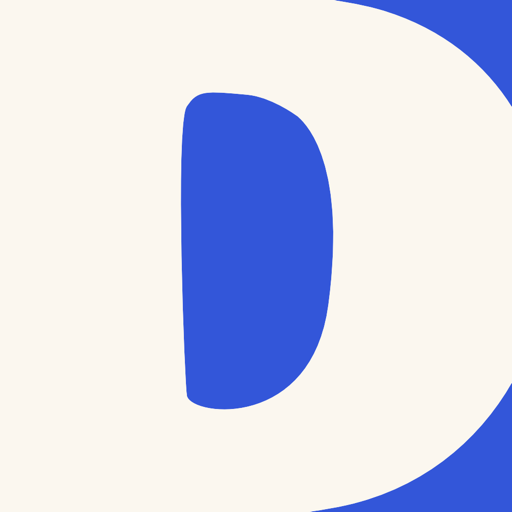
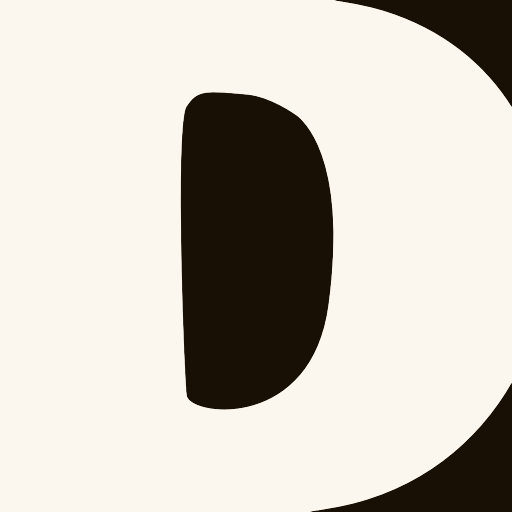
theme: เปลี่ยนสีแบรนด์เป็น espresso #181004 ทั้งเว็บ+โลโก้+ไอคอนแอป + ไอคอนตะกร้า/ลูกเต๋าใหม่ (line) + การ์ดแชร์โลโก้/ครีม

Changed region(s): [[0.3438, 0.1562, 0.6562, 0.8125], [0.625, 0.75, 1.0, 1.0], [0.6562, 0.0, 1.0, 0.2188]]

diff --git a/src/App.tsx b/src/App.tsx
@@ -13,6 +13,7 @@ import Mascot from './components/Mascot';
 import MobilePriceSheet from './components/MobilePriceSheet';
 import NavArrow from './components/NavArrows';
 import ShareMenu from './components/ShareMenu';
+import { BagIcon, DiceIcon } from './components/icons';
 import StageCaption from './components/StageCaption';
 import Toast from './components/Toast';
 import { useAuth } from './hooks/useAuth';
@@ -376,7 +377,7 @@ export default function App() {
     return (
       <div className="flex h-[100svh] w-full items-center justify-center bg-neutral-100">
         <div className="animate-pulse text-center">
-          <h1 className="font-logo text-3xl text-[#3356D9]">DOOD</h1>
+          <h1 className="font-logo text-3xl text-[#181004]">DOOD</h1>
           <p className="mt-2 text-sm text-neutral-400">กำลังโหลด…</p>
         </div>
       </div>
@@ -394,7 +395,7 @@ export default function App() {
         style={{ paddingTop: 'calc(env(safe-area-inset-top) + 0.75rem)' }}
       >
         <div>
-          <h1 className="font-logo text-xl leading-none text-[#3356D9]">DOOD</h1>
+          <h1 className="font-logo text-xl leading-none text-[#181004]">DOOD</h1>
           <p className="mt-1 text-[11px] leading-none text-neutral-500">Make it your style</p>
         </div>
         <div className="flex items-center gap-2">
@@ -467,7 +468,7 @@ export default function App() {
       {/* คอลัมน์คอนโทรล (desktop เท่านั้น): หัวข้อ + เลือกชั้น + ราคา */}
       <footer className="hidden w-96 flex-col items-start gap-4 lg:flex">
         <div className="mb-4">
-          <h1 className="font-logo text-6xl text-[#3356D9]">DOOD</h1>
+          <h1 className="font-logo text-6xl text-[#181004]">DOOD</h1>
           <p className="mt-3 text-neutral-500">Make it your style</p>
         </div>
         <div className="flex items-center gap-3">
@@ -479,9 +480,9 @@ export default function App() {
             type="button"
             onClick={shuffle}
             aria-label="สุ่มลุค"
-            className="flex h-12 w-12 shrink-0 items-center justify-center rounded-full bg-white text-xl shadow-sm ring-1 ring-black/5 transition active:scale-90"
+            className="flex h-12 w-12 shrink-0 items-center justify-center rounded-full bg-white text-neutral-800 shadow-sm ring-1 ring-black/5 transition active:scale-90"
           >
-            🎲
+            <DiceIcon size={22} />
           </button>
           <BagButton count={count} onClick={() => setCollectionOpen(true)} size={48} />
           <ExpandButton onClick={() => setPreviewOpen(true)} size={48} />
@@ -500,9 +501,9 @@ export default function App() {
           type="button"
           onClick={shuffle}
           aria-label="สุ่มลุค"
-          className="flex h-14 w-14 items-center justify-center rounded-full bg-neutral-200 text-2xl shadow-lg ring-1 ring-black/10 transition active:scale-90"
+          className="flex h-14 w-14 items-center justify-center rounded-full bg-neutral-200 text-neutral-800 shadow-lg ring-1 ring-black/10 transition active:scale-90"
         >
-          🎲
+          <DiceIcon size={26} />
         </button>
       </div>
 
@@ -633,9 +634,9 @@ function BagButton({
       onClick={onClick}
       aria-label={`ลุคที่บันทึกไว้${count > 0 ? ` (${count})` : ''}`}
       style={{ height: size, width: size }}
-      className="relative flex shrink-0 items-center justify-center rounded-full bg-white text-lg shadow-sm ring-1 ring-black/5 transition active:scale-90"
+      className="relative flex shrink-0 items-center justify-center rounded-full bg-white text-neutral-800 shadow-sm ring-1 ring-black/5 transition active:scale-90"
     >
-      🛍
+      <BagIcon size={Math.round(size * 0.5)} />
       {count > 0 && (
         <span className="absolute -right-1 -top-1 flex h-5 min-w-[1.25rem] items-center justify-center rounded-full bg-brand-blue px-1 text-[10px] font-bold tabular-nums text-white ring-2 ring-neutral-100">
           {count}

diff --git a/src/components/icons.tsx b/src/components/icons.tsx
@@ -61,3 +61,52 @@ export function EyeOffIcon({ size = 20 }: { size?: number }) {
     </svg>
   );
 }
+
+// ไอคอนถุงช้อปปิ้ง (เส้น) — ปุ่มเปิดคอลเลกชัน/ลุคที่บันทึก
+export function BagIcon({ size = 20 }: { size?: number }) {
+  return (
+    <svg width={size} height={size} viewBox="0 0 24 24" fill="none" aria-hidden>
+      <path
+        d="M5.5 8h13l-1 11.2a1.5 1.5 0 0 1-1.5 1.3H8a1.5 1.5 0 0 1-1.5-1.3L5.5 8Z"
+        stroke="currentColor"
+        strokeWidth="2"
+        strokeLinejoin="round"
+      />
+      <path
+        d="M8.8 8V6.5a3.2 3.2 0 0 1 6.4 0V8"
+        stroke="currentColor"
+        strokeWidth="2"
+        strokeLinecap="round"
+      />
+    </svg>
+  );
+}
+
+// ไอคอนลูกเต๋า 3D (ลูกบาศก์ isometric — บน 1 · ซ้าย 3 · ขวา 2) — ปุ่มสุ่มลุค
+export function DiceIcon({ size = 20 }: { size?: number }) {
+  const dots = [
+    [12, 7.3], // หน้าบน (1)
+    [5.98, 11.53], [7.7, 14.38], [9.42, 17.23], // หน้าซ้าย (3) แนวทแยงกลางหน้า
+    [18.02, 11.53], [14.58, 17.23], // หน้าขวา (2) แนวทแยงกลางหน้า
+  ];
+  return (
+    <svg width={size} height={size} viewBox="0 0 24 24" fill="none" aria-hidden>
+      <path
+        d="M13.05 3.08 L19.55 6.67 Q20.6 7.25 20.6 8.45 L20.6 15.55 Q20.6 16.75 19.55 17.33 L13.05 20.92 Q12 21.5 10.95 20.92 L4.45 17.33 Q3.4 16.75 3.4 15.55 L3.4 8.45 Q3.4 7.25 4.45 6.67 L10.95 3.08 Q12 2.5 13.05 3.08 Z"
+        stroke="currentColor"
+        strokeWidth="2"
+        strokeLinejoin="round"
+      />
+      <path
+        d="M3.4 7.25 L12 12 L20.6 7.25 M12 12 L12 21.5"
+        stroke="currentColor"
+        strokeWidth="2"
+        strokeLinecap="butt"
+        strokeLinejoin="round"
+      />
+      {dots.map(([cx, cy], i) => (
+        <circle key={i} cx={cx} cy={cy} r="1.1" fill="currentColor" />
+      ))}
+    </svg>
+  );
+}

diff --git a/src/components/Collection.tsx b/src/components/Collection.tsx
@@ -10,7 +10,7 @@ import {
   type Category,
   type ClothingItem,
 } from '../types';
-import { EyeOffIcon } from './icons';
+import { BagIcon, EyeOffIcon } from './icons';
 
 interface CollectionProps {
   open: boolean;
@@ -280,7 +280,7 @@ export default function Collection({
             <div className="flex-1 space-y-3 overflow-y-auto px-5 pb-4 pt-1">
               {looks.length === 0 ? (
                 <div className="flex flex-col items-center justify-center py-24 text-center">
-                  <div className="text-5xl">🛍</div>
+                  <div className="text-neutral-300"><BagIcon size={56} /></div>
                   <p className="mt-4 font-bold text-neutral-700">ยังไม่มีลุคที่บันทึก</p>
                   <p className="mt-1 text-sm text-neutral-400">
                     ปัดแต่งชุดที่ชอบ แล้วกด “อยากได้ลุคนี้ ✨”

diff --git a/tailwind.config.js b/tailwind.config.js
@@ -4,9 +4,10 @@ export default {
   theme: {
     extend: {
       colors: {
-        // สีแบรนด์ DOOD — น้ำเงิน (หลัก/โลโก้/แอ็กชัน) · ที่เหลือใช้เทา-ขาวกลาง
+        // สีแบรนด์ DOOD — espresso ดำอมน้ำตาล (หลัก/โลโก้/แอ็กชัน) · ที่เหลือใช้เทา-ขาวกลาง
+        // (token ยังชื่อ blue เพื่อไม่ต้องแก้คลาส brand-blue ทั่วเว็บ — ค่าจริงคือ #181004)
         brand: {
-          blue: '#3356D9',
+          blue: '#181004',
         },
       },
     },

diff --git a/index.html b/index.html
@@ -5,7 +5,7 @@
     <meta name="viewport" content="width=device-width, initial-scale=1.0, maximum-scale=1.0, user-scalable=no, viewport-fit=cover" />
     <title>DOOD — ปัดแต่งชุด จัดลุคที่ใช่ ช้อปได้เลย</title>
     <meta name="description" content="ปัดแต่งชุด จัดลุคที่ใช่ ช้อปได้เลย — Make it your style" />
-    <meta name="theme-color" content="#171717" />
+    <meta name="theme-color" content="#181004" />
 
     <link rel="icon" type="image/png" href="/favicon.png" />
     <link rel="icon" type="image/png" sizes="192x192" href="/icon-192.png" />
